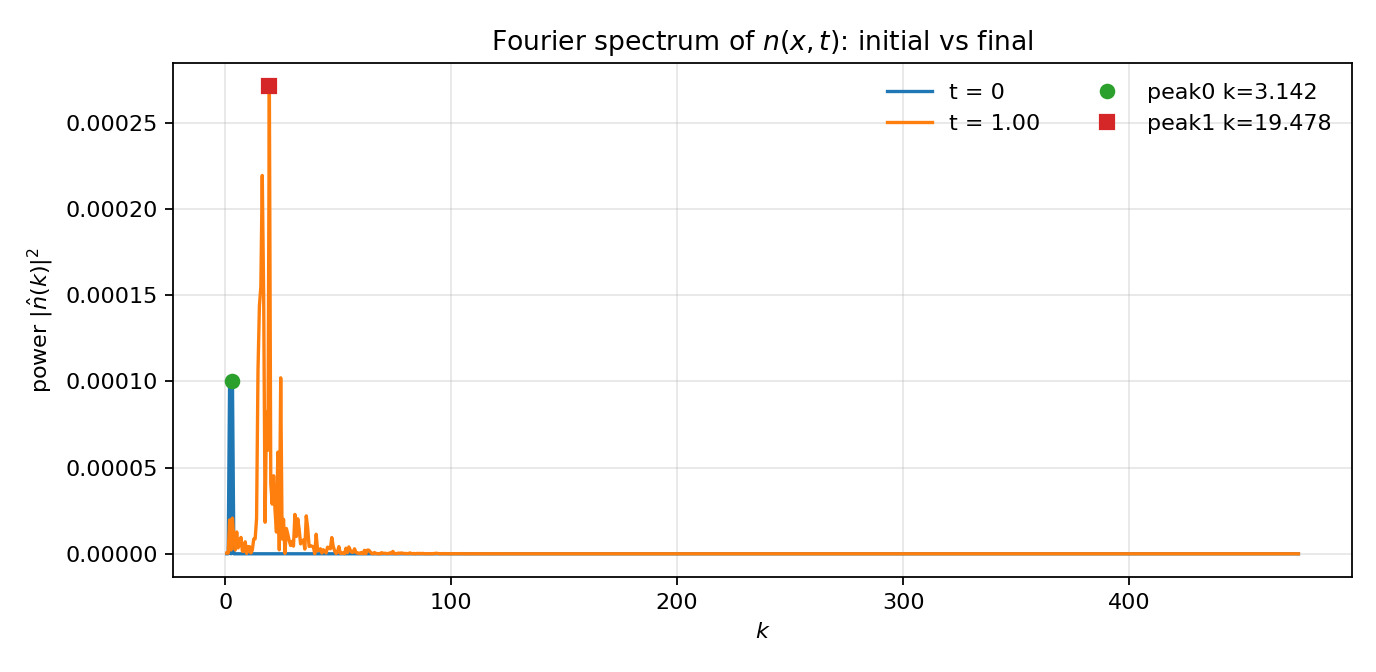
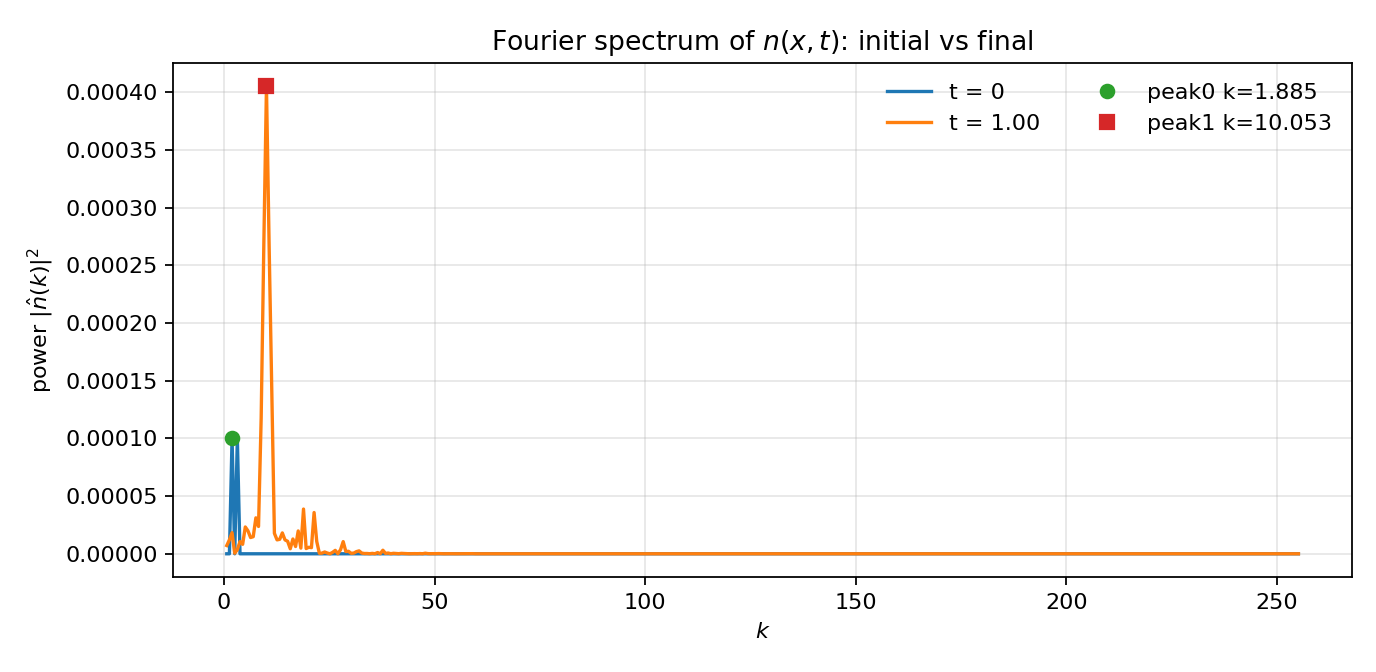
Refactor simulation parameters and enhance velocity detection analysis
- Updated Dn and Dp parameters for improved simulation accuracy.
- Adjusted Nx and n_save values for performance optimization.
- Changed integration method to BDF for better stability in simulations.
- Modified velocity detection function to improve correlation calculations and indexing.
- Added new output images for enhanced visualization of simulation results.

diff --git a/mass injection/mass injection.py b/mass injection/mass injection.py
@@ -53,8 +53,8 @@ class P:
     maintain_drift: str = "field"
     Kp: float = 0.15
 
-    Dn: float = 0.5/2#/10#0.03
-    Dp: float = 0.1/2
+    Dn: float = 0.5#/10#0.03
+    Dp: float = 0.1
 
     J0: float = 1.0#0.04
     sigma_J: float = 2.0**1/2#6.0
@@ -66,13 +66,13 @@ class P:
     nbar_sigma: float = 120.0
 
     L: float = 10.0
-    Nx: int = 1512#2524#1024
+    Nx: int = 812#1512#2524#1024
     t_final: float = 10.0
-    n_save: int = 200#200  # Reduced for speed
+    n_save: int = 200#200#200  # Reduced for speed
     # rtol: float = 5e-7
     # atol: float = 5e-9
-    rtol = 1e-2  # Relaxed for speed
-    atol = 1e-5  # Relaxed for speed
+    rtol = 1e-3  # Relaxed for speed
+    atol = 1e-7  # Relaxed for speed
     n_floor: float = 1e-7
     dealias_23: bool = True
 
@@ -623,14 +623,24 @@ def run_once(tag="seed_mode"):
             with set_workers(NTHREADS):
                 sol = solve_ivp(lambda t,y: rhs_with_progress(t,y,E_base,last_print_time,start_time),
                                 (0.0, par.t_final), y0, t_eval=t_eval,
-                                method="DOP853", rtol=par.rtol, atol=par.atol,
-                                max_step=0.05, vectorized=False)#BDF
+                                method="BDF", rtol=par.rtol, atol=par.atol)
     else:
         with set_workers(NTHREADS):
             sol = solve_ivp(lambda t,y: rhs_with_progress(t,y,E_base,last_print_time,start_time),
                             (0.0, par.t_final), y0, t_eval=t_eval,
-                            method="DOP853", rtol=par.rtol, atol=par.atol,
-                            max_step=0.05, vectorized=False)#BDF
+                            method="BDF", rtol=par.rtol, atol=par.atol)
+
+
+    #             sol = solve_ivp(lambda t,y: rhs_with_progress(t,y,E_base,last_print_time,start_time),
+    #                             (0.0, par.t_final), y0, t_eval=t_eval,
+    #                             method="BDF", rtol=par.rtol, atol=par.atol,
+    #                             max_step=0.05, vectorized=False)#BDF
+    # else:
+    #     with set_workers(NTHREADS):
+    #         sol = solve_ivp(lambda t,y: rhs_with_progress(t,y,E_base,last_print_time,start_time),
+    #                         (0.0, par.t_final), y0, t_eval=t_eval,
+    #                         method="BDF", rtol=par.rtol, atol=par.atol,
+    #                         max_step=0.05, vectorized=False)#BDF
     
     total_wall_time = time.time() - start_wall_time
     print(f"\n[Simulation] Completed successfully!")

diff --git a/mass injection/plot_from_data.py b/mass injection/plot_from_data.py
@@ -131,7 +131,7 @@ def plot_velocity_detection(data, u_d, tag="velocity_detection"):
     L = data['L']
     m = data['m']
     
-    idx_t1 = -7
+    idx_t1 = -2
     idx_t2 = -1
     
     n_t1 = n_t[:, idx_t1]
@@ -146,12 +146,14 @@ def plot_velocity_detection(data, u_d, tag="velocity_detection"):
     dn_t2 = n_t2 - np.mean(n_t2)
     
     n_shifts = len(n_t1)
-    shifts = np.arange(n_shifts) * dx
-    correlations = np.zeros(n_shifts)
+    shifts = np.arange(-n_shifts//2, n_shifts//2) * dx
+    correlations = np.zeros(len(shifts))
     
     for i, shift in enumerate(shifts):
-        x_shifted = (x + shift) % L
-        dn_t1_shifted = np.interp(x, x_shifted, dn_t1)
+        if shift >= 0:
+            dn_t1_shifted = np.roll(dn_t1, -int(shift/dx))
+        else:
+            dn_t1_shifted = np.roll(dn_t1, int(-shift/dx))
         correlations[i] = np.corrcoef(dn_t1_shifted, dn_t2)[0, 1]
     
     max_idx = np.argmax(correlations)
@@ -159,8 +161,10 @@ def plot_velocity_detection(data, u_d, tag="velocity_detection"):
     corr_max = correlations[max_idx]
     u_drift = shift_opt / (t2 - t1)
     
-    x_shifted = (x + shift_opt) % L
-    n_t1_shifted = np.interp(x, x_shifted, n_t1)
+    if shift_opt >= 0:
+        n_t1_shifted = np.roll(n_t1, -int(shift_opt/dx))
+    else:
+        n_t1_shifted = np.roll(n_t1, int(-shift_opt/dx))
     
     fig, (ax1, ax2) = plt.subplots(1, 2, figsize=(12, 5))
     
